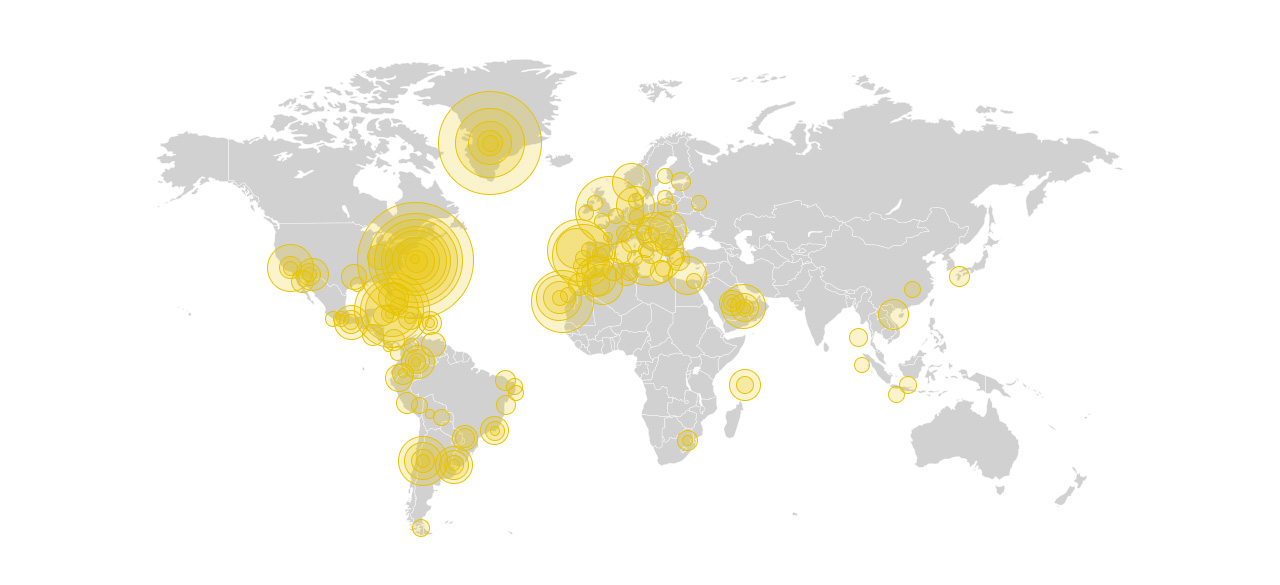
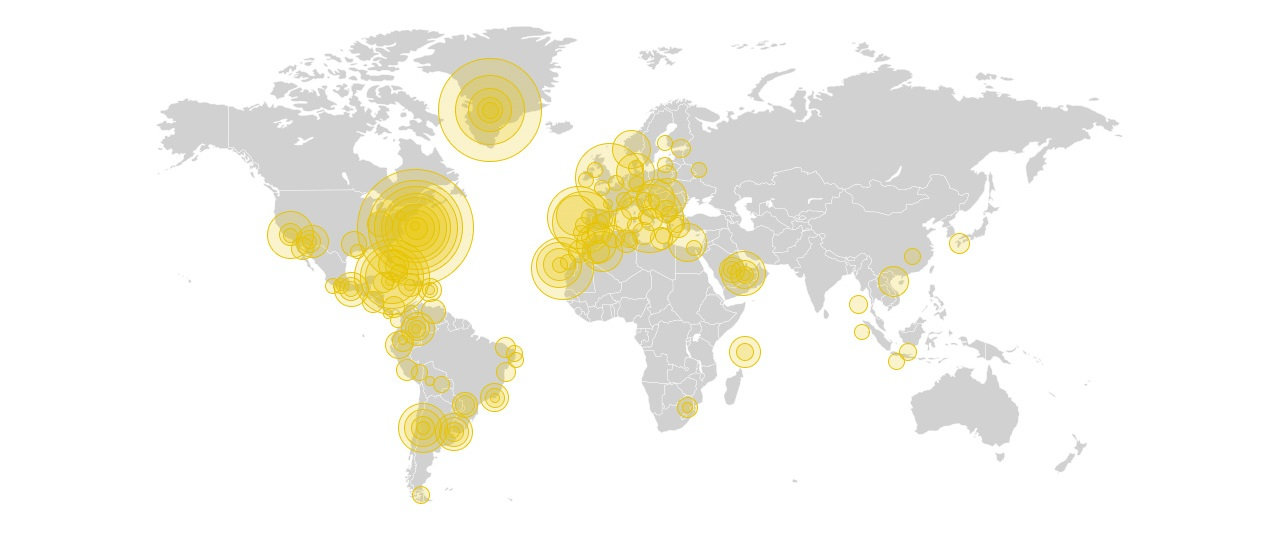
correcciones

Changed region(s): [[0.125, 0.0306, 0.875, 0.9189], [0.7188, 0.7658, 0.8438, 0.8577], [0.7812, 0.7045, 0.8125, 0.7351]]

diff --git a/css/style.css b/css/style.css
@@ -164,12 +164,13 @@ body{cursor: default; font: 14px 'Roboto', sans-serif; margin: 0; width: 100%;ba
 .tpl-fiveboxes-key .sta-fiveboxes-key_cab{font:italic 36px 'Libre Baskerville', serif; color: #00613f; margin-bottom: 40px;}
 .tpl-fiveboxes-key .sta-fiveboxes-key_box{max-width: 350px; margin: 0 auto;}
 .tpl-fiveboxes-key .sta-fiveboxes-key_title{font:italic 18px 'Libre Baskerville', serif; color: #00613f; margin-bottom: 5px;}
-.tpl-fiveboxes-key .sta-fiveboxes-key_box:not(:last-of-type) .sta-fiveboxes-key_text{margin-bottom: 30px;}
+.tpl-fiveboxes-key .sta-fiveboxes-key_box:not(:last-of-type){margin-bottom: 30px;}
 @media (min-width: 601px){
-  .tpl-fiveboxes-key{padding: 90px 20px;}
-  .tpl-fiveboxes-key .sta-fiveboxes-key_box{width: 100%; display: inline-block; vertical-align: top; margin: 20px;}
-  .tpl-fiveboxes-key .sta-fiveboxes-key_contbox{max-width: 1220px; margin: 0 auto;}
-  .tpl-fiveboxes-key .sta-fiveboxes-key_box{max-width: 200px;}
+  .tpl-fiveboxes-key{padding: 90px 20px 70px;}
+  .tpl-fiveboxes-key .sta-fiveboxes-key_max{max-width: 1220px; margin: 0 auto;}
+  .tpl-fiveboxes-key .sta-fiveboxes-key_cab{margin-bottom: 20px;}
+  .tpl-fiveboxes-key .sta-fiveboxes-key_box{max-width: 200px;width: 100%; display: inline-block; vertical-align: top; margin: 20px;}
+  .tpl-fiveboxes-key .sta-fiveboxes-key_box:not(:last-of-type){margin-bottom: 20px;}
 
 
 }
@@ -178,27 +179,36 @@ body{cursor: default; font: 14px 'Roboto', sans-serif; margin: 0; width: 100%;ba
 
 
 /* tpl-boxesnum-key */
-.tpl-boxesnum-key{text-align: center; font: 16px 'Roboto'; color: #666; background: #dadada; padding: 50px 20px;counter-reset: section;}
-.tpl-boxesnum-key .sta-boxesnum-key_title{font:italic 36px 'Libre Baskerville', serif; color: #00613f; margin-bottom: 50px;}
-.tpl-boxesnum-key .sta-boxesnum-key_box{max-width: 400px; margin: 0 auto; position: relative;}
-.tpl-boxesnum-key .sta-boxesnum-key_titbox{font:italic 24px 'Libre Baskerville', serif; color: #00613f; margin-bottom: 5px;}
-.tpl-boxesnum-key .sta-boxesnum-key_box:not(:last-of-type) .sta-boxesnum-key_text{margin-bottom: 60px;}
-.tpl-boxesnum-key .sta-boxesnum-key_titbox:after{content: " " counter(section);counter-increment: section; background: #e6c300; border-radius: 50%; box-shadow: 0px 0px 4px 0px #000; color: #00613f; position: absolute; top: -35px; right: 0; left: 0; width: 25px; height: 25px; margin: 0 auto; font: 14px 'Roboto';}
+.tpl-boxesnum-key{text-align: center; font: 16px 'Roboto'; color: #666; background: #dadada; padding: 50px 20px;counter-reset: tpl-boxesnum-key;}
+.tpl-boxesnum-key .sta-boxesnum-key_title{font:italic 36px 'Libre Baskerville', serif; color: #00613f; margin-bottom: 15px;}
+.tpl-boxesnum-key .sta-boxesnum-key_box{max-width: 400px; margin: 0 auto;}
+.tpl-boxesnum-key .sta-boxesnum-key_titbox{font:italic 24px 'Libre Baskerville', serif; color: #00613f; margin-bottom: 5px; padding-top: 35px; position: relative}
+.tpl-boxesnum-key .sta-boxesnum-key_box:not(:last-of-type){margin-bottom: 25px;}
+.tpl-boxesnum-key .sta-boxesnum-key_titbox:after{content:counter(tpl-boxesnum-key);counter-increment: tpl-boxesnum-key; background: #e6c300; border-radius: 50%; box-shadow: 0px 0px 4px 0px #000; color: #00613f; position: absolute; top: 0; left: 50%; width: 26px; margin-left: -13px; font: 14px/26px 'Roboto'; text-align: center;}
 
 @media (min-width: 601px){
-  .tpl-boxesnum-key .sta-boxesnum-key_title{margin-bottom: 80px;}
-  .tpl-boxesnum-key .sta-boxesnum-key_box{display: inline-block; vertical-align: top; margin: 0 20px;}
-  .tpl-boxesnum-key .sta-boxesnum-key_box:not(:last-of-type) .sta-boxesnum-key_text{margin-bottom: 0;}
+  .tpl-boxesnum-key .sta-boxesnum-key_title{margin-bottom: 45px;}
+  .tpl-boxesnum-key .sta-boxesnum-key_box{display: inline-block; vertical-align: top; margin:20px;}
+}
+@media (min-width: 801px){
+  .tpl-boxesnum-key .sta-boxesnum-key_title{margin-bottom: 30px;}
+  .tpl-boxesnum-key .sta-boxesnum-key_max{max-width: 1220px; margin: 0 auto;}
+  .tpl-boxesnum-key .sta-boxesnum-key_box{max-width: 350px;}
 
 }
 /* fin tpl-boxesnum-key */
 
 /* tpl-map-key */
-.tpl-map-key{text-align: center;font:italic 36px 'Libre Baskerville', serif; color: #00613f; position: relative;}
-.tpl-map-key .sta-map-key_cont{max-width: 1300px; margin: 0 auto;}
-.tpl-map-key .sta-map-key_title{position: absolute; right: 0; left: 0; top: 10%;}
-.tpl-map-key .sta-map-key_image{min-width: 300px;}
-.tpl-map-key .sta-map-key_image img{width: 100%; overflow: auto}
+.tpl-map-key{text-align: center;font:italic 25px 'Libre Baskerville', serif; color: #00613f;  background: #fff; padding: 20px 0;}
+.tpl-map-key .sta-map-key_title{padding: 0 20px 10px;}
+.tpl-map-key .sta-map-key_cont{max-width: 1300px; margin: 0 auto;position: relative;}
+.tpl-map-key .sta-map-key_image{overflow: hidden;}
+.tpl-map-key .sta-map-key_image img{width: 130%; margin-left: -15%;}
+@media (min-width: 601px){
+  .tpl-map-key{font-size: 36px;}
+  .tpl-map-key .sta-map-key_title{position: absolute; right: 0; left: 0; top: 0;}
+  .tpl-map-key .sta-map-key_image img{width: 100%; margin-left: 0;}
+}
 /* fin tpl-map-key */
 
 /* tpl-selechoteles-key */

diff --git a/modulos/tpl-boxestext-key.html b/modulos/tpl-boxestext-key.html
@@ -1,0 +1,53 @@
+<!DOCTYPE html>
+<html lang="es">
+
+<head>
+  <meta charset="UTF-8">
+  <meta name="viewport" content="width=device-width, initial-scale=1.0">
+  <meta http-equiv="X-UA-Compatible" content="ie=edge">
+  <link rel="stylesheet" href="../css/style.css">
+  <title>Document</title>
+  <link href="https://fonts.googleapis.com/css?family=Libre+Baskerville:400,400i|Roboto:300,400" rel="stylesheet">
+  <link rel="stylesheet" href="../fonts/icons.css">
+  <script src="../js/jquery-1.8.3.min.js"></script>
+</head>
+
+<body>
+
+
+    <div class="tpl-boxestext-key">
+        <div class="sta-boxestext-key_max">
+            <div class="tpl-title-key">
+              <div class="sta-title-key_title">Plataforma tecnológica</div>
+              <div class="sta-title-key_text">La plataforma tecnológica que Keytel utiliza para la comercialización de sus hoteles, funciona bajo la filosofía del inventario único, multicanal y multi tarifa. La misma habitación, puede, a voluntad del hotel, estar disponible en todos o sólo alguno de los canales que Keytel opera. Lo puede estar al mismo precio o con precios diferentes y puede retribuir con la misma o diferente comisión en cada caso.</div>
+            </div>
+            
+            <div class="sta-boxestext-key_text">Un elemento fundamental es la forma en la que el hotel integra sus habitaciones y precios en la plataforma:</div>
+
+            <div class="sta-boxestext-key_contbox">
+      
+              <div class="sta-boxestext-key_box">
+                <div class="sta-boxestext-key_title">Manual</div>
+                <div class="sta-boxestext-key_text">a través de nuestra extranet.</div>
+              </div>
+        
+              <div class="sta-boxestext-key_box">
+                <div class="sta-boxestext-key_title">Integración pull</div>
+                <div class="sta-boxestext-key_text">por parte de Keytel contra la plataforma del hotel</div>
+              </div>
+        
+              <div class="sta-boxestext-key_box">
+                <div class="sta-boxestext-key_title">Channel Manager</div>
+                <div class="sta-boxestext-key_text">con más de 80 channel manager</div>
+              </div>
+        
+            </div>
+        </div>
+      </div>
+    
+
+
+  <script src="../scripts.js"></script>
+</body>
+
+</html>

diff --git a/modulos/tpl-boxesnum-key.html b/modulos/tpl-boxesnum-key.html
@@ -22,12 +22,10 @@
         <div class="sta-boxesnum-key_box">
           <div class="sta-boxesnum-key_titbox">Capacidad</div>
           <div class="sta-boxesnum-key_text">La comercialización de establecimientos hoteleros a nivel global actualmente pasa por contar con una capacidad tecnológica y comercial de un nivel superlativo.</div>
-        </div>
-        <div class="sta-boxesnum-key_box">
+        </div><div class="sta-boxesnum-key_box">
           <div class="sta-boxesnum-key_titbox">Fuerza</div>
           <div class="sta-boxesnum-key_text">Comercialmente Keytel complementa su acción directa  con toda la fuerza que le aporta el grupo Hotusa. Sobre todo a través de Restel. Su distribuidor global donde todos los hoteles representados por Keytel, cuentan con un nivel absolutamente preferente en la comercialización.</div>
-        </div>
-        <div class="sta-boxesnum-key_box">
+        </div><div class="sta-boxesnum-key_box">
           <div class="sta-boxesnum-key_titbox">Internacionalización</div>
           <div class="sta-boxesnum-key_text">Comercialmente Keytel complementa su acción directa  con toda la fuerza que le aporta el grupo Hotusa. Sobre todo a través de Restel. Su distribuidor global donde todos los hoteles representados por Keytel, cuentan con un nivel absolutamente preferente en la comercialización.</div>
         </div>

diff --git a/modulos/tpl-title-key.html b/modulos/tpl-title-key.html
@@ -1,4 +1,25 @@
+<!DOCTYPE html>
+<html lang="es">
+
+<head>
+  <meta charset="UTF-8">
+  <meta name="viewport" content="width=device-width, initial-scale=1.0">
+  <meta http-equiv="X-UA-Compatible" content="ie=edge">
+  <link rel="stylesheet" href="../css/style.css">
+  <title>Document</title>
+  <link href="https://fonts.googleapis.com/css?family=Libre+Baskerville:400,400i|Roboto:300,400" rel="stylesheet">
+  <link rel="stylesheet" href="../fonts/icons.css">
+  <script src="../js/jquery-1.8.3.min.js"></script>
+</head>
+
+<body>
+
 <div class="tpl-title-key">
   <div class="sta-title-key_title">La selección de los hoteles</div>
   <div class="sta-title-key_text">Contamos con unos 12.000 hoteles de entre tres y cinco estrellas categorizados con nuestro propio sistema de calidad en los siguientes niveles.</div>
 </div>
+
+<script src="../scripts.js"></script>
+</body>
+
+</html>

diff --git a/modulos/tpl-map-key.html b/modulos/tpl-map-key.html
@@ -20,8 +20,8 @@
     <div class="sta-map-key_title">
       Reservas por destino
     </div>
-    <div class="sta-map-key_image">
-      <img src="../images/hoteles.jpg">
+    <div class="sta-map-key_image" data-img="../images/hoteles.jpg">
+      
     </div>
    </div>
  </div>
